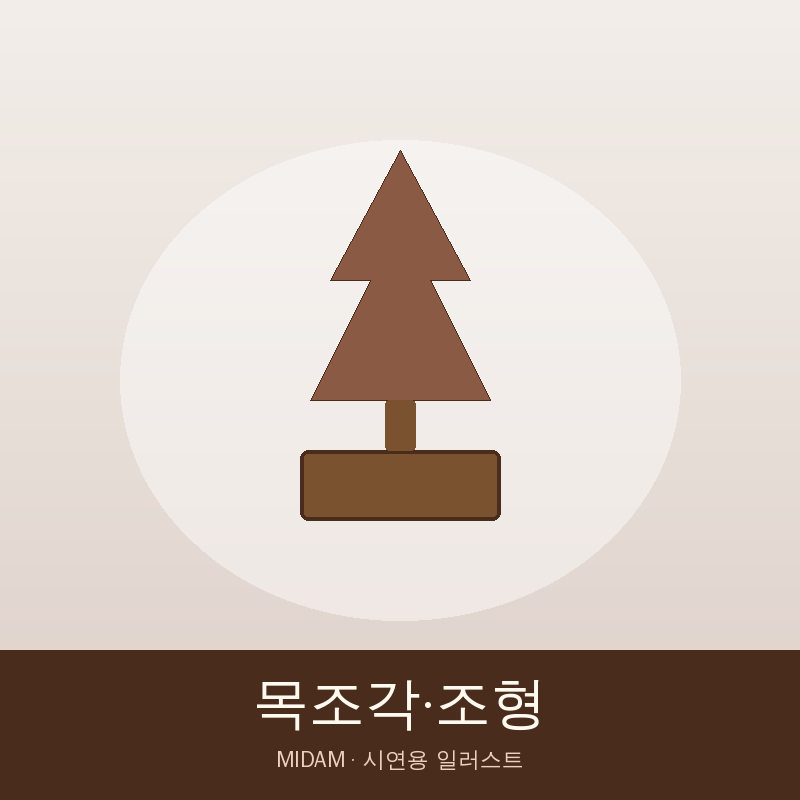
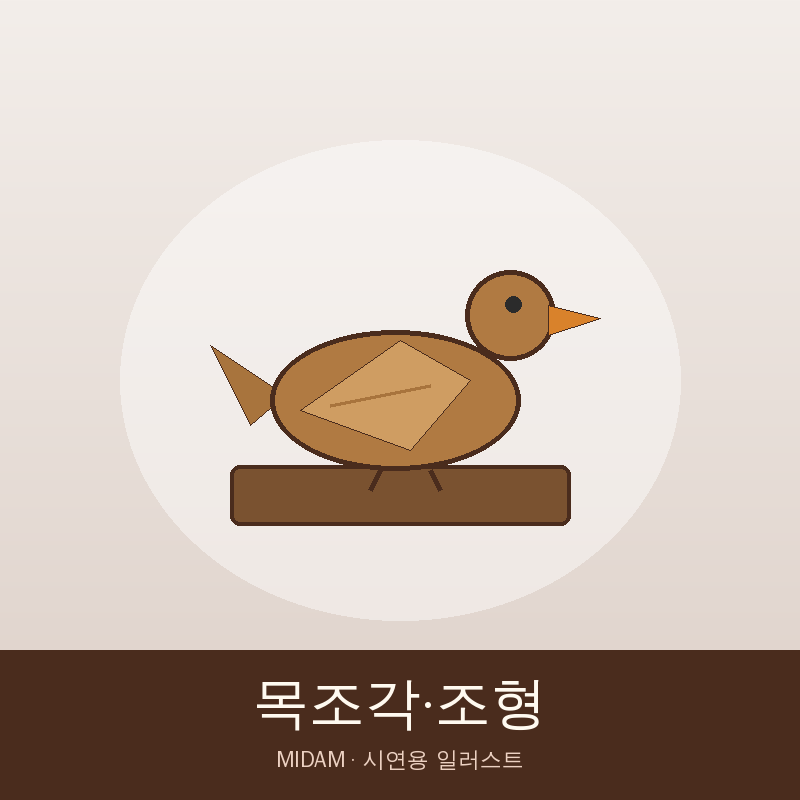
시연 대표 이미지를 서버 없이 열리는 외부 링크(WebP)로 바꾸고 약한 일러스트 9종을 다시 그린다
Claude-Session: https://claude.ai/code/session_016KNfDSWncnnoH8k7bGBps1

Changed region(s): [[0.25, 0.1875, 0.75, 0.6562]]

diff --git a/scripts/seed-images/generate.py b/scripts/seed-images/generate.py
@@ -132,10 +132,16 @@ def draw(kind, p):  # noqa: C901 - 그림 종류별 분기
         p.ell((290, 240, 400, 330), a)
         p.ell((410, 255, 510, 330), CREAM, k, 4)
     elif kind == "board":
-        p.rect((220, 380, 600, 450), l, 24, k, 5)
-        p.poly([(250, 340), (460, 200), (480, 230), (290, 370)], "#c9d3d9", k)
-        p.rect((450, 160, 540, 215), a, 10)
-        p.line([(250, 340), (290, 370)], k, 5)
+        p.rect((200, 340, 520, 500), "#c89a5b", 26, k, 5)
+        p.rect((510, 395, 610, 445), "#c89a5b", 20, k, 5)
+        p.ell((560, 410, 590, 430), CREAM, k, 3)
+        for y in (370, 410, 450, 480):
+            p.line([(230, y), (490, y + 6)], "#a67a3f", 3)
+        p.rect((175, 262, 285, 300), "#6b4a2b", 14, k, 4)
+        p.ell((205, 275, 217, 287), "#e3c76d")
+        p.ell((240, 275, 252, 287), "#e3c76d")
+        p.poly([(285, 262), (500, 250), (545, 272), (500, 300), (285, 300)], "#cfd8de", k)
+        p.line([(290, 296), (505, 296)], "#8fa0aa", 4)
     elif kind == "jar":
         p.poly([(310, 190), (490, 190), (470, 230), (540, 330), (520, 480), (440, 540), (360, 540), (280, 480), (260, 330), (330, 230)], a, k)
         p.rect((300, 160, 500, 200), l, 10, k, 4)
@@ -181,10 +187,17 @@ def draw(kind, p):  # noqa: C901 - 그림 종류별 분기
         p.line([(400, 340), (460, 370)], k, 8)
         p.ell((388, 328, 412, 352), a)
     elif kind == "blind":
-        p.rect((220, 190, 580, 215), k, 6)
-        for x in range(240, 580, 24):
-            p.rect((x, 215, x + 14, 500), l, 4, a, 2)
-        p.line([(400, 215), (400, 540)], k, 4)
+        p.rect((190, 170, 610, 198), k, 8)
+        for x in range(205, 600, 22):
+            p.rect((x, 198, x + 15, 450), l, 4, a, 2)
+        p.line([(190, 280), (610, 280)], a, 5)
+        p.line([(190, 370), (610, 370)], a, 5)
+        p.rect((190, 440, 610, 490), l, 24, k, 4)
+        for x in range(215, 600, 40):
+            p.line([(x, 445), (x, 485)], a, 3)
+        for cx in (230, 570):
+            p.line([(cx, 198), (cx, 510)], "#c0392b", 4)
+            p.ell((cx - 10, 505, cx + 10, 525), "#c0392b")
     elif kind == "chest":
         p.rect((220, 240, 580, 470), a, 10, k, 6)
         p.line([(400, 240), (400, 470)], k, 5)
@@ -194,11 +207,16 @@ def draw(kind, p):  # noqa: C901 - 그림 종류별 분기
         p.rect((240, 470, 270, 520), k, 4)
         p.rect((530, 470, 560, 520), k, 4)
     elif kind == "handle":
-        p.rect((220, 320, 580, 480), a, 12, k, 5)
-        p.ell((340, 340, 460, 460), l, k, 6)
-        p.ell((375, 375, 425, 425), k)
-        p.ell((240, 340, 270, 370), l)
-        p.ell((530, 340, 560, 370), l)
+        p.rect((200, 190, 600, 520), "#c89a5b", 8, k, 5)
+        p.line([(400, 190), (400, 520)], k, 4)
+        for y in (260, 340, 420):
+            p.line([(215, y), (385, y + 4)], "#a67a3f", 3)
+            p.line([(415, y + 4), (585, y)], "#a67a3f", 3)
+        p.poly([(400, 235), (475, 285), (440, 335), (480, 385), (400, 440), (320, 385), (360, 335), (325, 285)], "#d9b44a", k)
+        p.ell((372, 322, 428, 378), "#c89a5b", "#8a6a1f", 6)
+        p.ell((388, 338, 412, 362), "#8a6a1f")
+        for (x, y) in ((345, 285), (455, 285), (345, 390), (455, 390)):
+            p.ell((x - 8, y - 8, x + 8, y + 8), "#8a6a1f")
     elif kind == "ring":
         p.ell((250, 300, 420, 470), None, a, 18)
         p.poly([(335, 285), (365, 250), (305, 250)], "#9ad1ff", k)
@@ -228,10 +246,18 @@ def draw(kind, p):  # noqa: C901 - 그림 종류별 분기
         p.line([(250, 480), (240, 495)], k, 10)
         p.line([(300, 500), (500, 400)], "#c9d3d9", 8)
     elif kind == "scarf":
-        p.poly([(240, 220), (560, 220), (590, 280), (430, 330), (500, 520), (430, 540), (350, 340), (230, 290)], a, k)
-        for x in range(260, 560, 50):
-            p.line([(x, 232), (x - 6, 280)], l, 8)
-        p.line([(436, 480), (470, 530)], l, 6)
+        import math
+        top = [(200 + i * 10, 240 + 20 * math.sin(i * 0.45)) for i in range(41)]
+        bot = [(600 - i * 10, 330 + 20 * math.sin((40 - i) * 0.45)) for i in range(41)]
+        p.poly(top + bot, a, k)
+        for i in range(2, 40, 4):
+            x = 200 + i * 10
+            p.line([(x, 240 + 20 * math.sin(i * 0.45)), (x, 330 + 20 * math.sin(i * 0.45))], l, 8)
+        p.poly([(470, 345), (560, 355), (540, 500), (450, 490)], a, k)
+        for i in range(0, 90, 10):
+            p.line([(455 + i, 492 - (i // 9)), (452 + i, 535)], l, 4)
+        for i in range(0, 90, 12):
+            p.line([(200, 250 + i // 2 + 0), (190, 260 + i // 2)], l, 4)
     elif kind == "bag":
         p.arc((300, 170, 500, 330), 180, 360, k, 12)
         p.rect((230, 270, 570, 500), a, 40, k, 5)
@@ -271,10 +297,16 @@ def draw(kind, p):  # noqa: C901 - 그림 종류별 분기
         p.line([(330, 420), (320, 500)], a, 6)
         p.line([(470, 420), (480, 500)], a, 6)
     elif kind == "headband":
-        p.arc((220, 190, 580, 520), 200, 340, k, 24)
-        p.arc((220, 200, 580, 530), 200, 340, a, 10)
-        p.ell((375, 180, 425, 230), l, k, 5)
-        p.ell((388, 193, 412, 217), a)
+        p.ell((300, 190, 500, 420), "#e2c9a1", k, 5)
+        p.rect((370, 410, 430, 510), "#c9ad82", 8, k, 4)
+        p.ell((310, 500, 490, 540), "#c9ad82", k, 4)
+        p.rect((296, 270, 504, 330), "#3a3a3a", 16, k, 4)
+        for x in range(306, 500, 14):
+            p.line([(x, 276), (x + 7, 324)], "#6d6d6d", 2)
+            p.line([(x + 7, 276), (x, 324)], "#6d6d6d", 2)
+        for x in (320, 480):
+            p.ell((x - 14, 286, x + 14, 314), None, "#d9b44a", 5)
+        p.ell((384, 280, 416, 322), "#e8a33d", k, 3)
     elif kind == "brush":
         p.line([(250, 520), (470, 260)], "#8a5a2b", 16)
         p.poly([(470, 260), (500, 200), (540, 170), (520, 230), (490, 270)], INK)
@@ -311,11 +343,16 @@ def draw(kind, p):  # noqa: C901 - 그림 종류별 분기
         for (x, y) in ((250, 290), (550, 290), (250, 450), (550, 450)):
             p.ell((x - 10, y - 10, x + 10, y + 10), l, k, 3)
     elif kind == "bedding":
-        p.rect((200, 330, 600, 500), a, 30, k, 5)
-        p.rect((200, 330, 600, 390), l, 30, k, 4)
-        p.rect((250, 260, 420, 335), CREAM, 40, k, 4)
-        for x in range(240, 580, 60):
-            p.ell((x, 430, x + 30, 460), l)
+        p.rect((200, 420, 600, 505), a, 30, k, 5)
+        p.rect((220, 350, 580, 430), l, 30, k, 4)
+        p.rect((240, 280, 560, 360), CREAM, 30, k, 4)
+        for x in range(255, 580, 70):
+            p.ell((x, 440, x + 34, 474), l)
+        for x in range(265, 560, 60):
+            p.ell((x, 372, x + 26, 398), a)
+        p.rect((300, 195, 500, 290), CREAM, 40, k, 4)
+        p.line([(330, 245), (470, 245)], l, 5)
+        p.ell((385, 215, 415, 245), a)
     elif kind == "tablecloth":
         p.rect((190, 300, 610, 340), a, 6, k, 4)
         p.poly([(190, 340), (610, 340), (640, 470), (160, 470)], l, k)
@@ -362,16 +399,26 @@ def draw(kind, p):  # noqa: C901 - 그림 종류별 분기
             p.ell((x0 + 30, 260, x0 + 70, 300), a)
             p.line([(x0 + 50, 300), (x0 + 50, 420)], a, 5)
     elif kind == "calligraphy":
-        p.rect((250, 170, 550, 520), CREAM, 6, k, 4)
-        p.line([(400, 230), (400, 450)], INK, 14)
-        p.line([(320, 290), (480, 290)], INK, 12)
-        p.line([(340, 360), (460, 360)], INK, 12)
-        p.line([(400, 450), (350, 480)], INK, 10)
-        p.rect((470, 440, 520, 490), "#c0392b", 4)
+        p.rect((280, 160, 520, 185), "#6b4a2b", 6, k, 3)
+        p.rect((300, 185, 500, 520), CREAM, 4, k, 4)
+        p.rect((290, 515, 510, 540), "#6b4a2b", 6, k, 3)
+        p.line([(345, 250), (455, 215)], INK, 24)
+        p.line([(400, 225), (385, 330)], INK, 22)
+        p.line([(335, 335), (470, 345)], INK, 20)
+        p.line([(380, 340), (350, 440)], INK, 20)
+        p.line([(405, 350), (455, 440)], INK, 20)
+        p.rect((450, 455, 492, 497), "#c0392b", 4)
     elif kind == "carving":
-        p.rect((300, 450, 500, 520), "#7a5230", 8, k, 4)
-        p.poly([(400, 150), (470, 280), (430, 280), (490, 400), (310, 400), (370, 280), (330, 280)], a, k)
-        p.rect((385, 400, 415, 450), "#7a5230", 4)
+        p.rect((230, 465, 570, 525), "#7a5230", 10, k, 4)
+        p.poly([(285, 395), (210, 345), (250, 425)], "#a8743d", k)
+        p.ell((270, 330, 520, 470), "#b07a42", k, 5)
+        p.poly([(300, 410), (400, 340), (470, 380), (410, 450)], "#cf9d62", k)
+        p.line([(330, 405), (430, 385)], "#a8743d", 4)
+        p.ell((465, 270, 555, 360), "#b07a42", k, 5)
+        p.poly([(548, 305), (600, 318), (548, 335)], "#d9822b", k)
+        p.ell((505, 296, 521, 312), INK)
+        p.line([(380, 470), (370, 490)], k, 5)
+        p.line([(430, 470), (440, 490)], k, 5)
     elif kind == "mask":
         p.ell((260, 170, 540, 500), CREAM, k, 6)
         p.ell((310, 280, 370, 330), INK)
@@ -399,11 +446,14 @@ def draw(kind, p):  # noqa: C901 - 그림 종류별 분기
         p.ell((200, 470, 600, 530), "#6fa56a")
         p.line([(400, 470), (400, 540)], "#4f7d3c", 8)
     elif kind == "pedestal":
-        p.rect((250, 430, 550, 520), l, 10, k, 5)
-        p.rect((290, 400, 510, 440), a, 8, k, 4)
-        p.ell((340, 200, 460, 330), "#9ad1ff", k, 5)
-        p.poly([(340, 265), (400, 200), (460, 265), (400, 330)], "#c8e7ff")
-        p.line([(350, 345), (450, 345)], "#ffffff", 6)
+        p.rect((240, 460, 560, 525), l, 10, k, 5)
+        p.rect((290, 410, 510, 465), a, 8, k, 4)
+        p.ell((300, 190, 500, 410), "#e4f1fc")
+        p.poly([(380, 300), (420, 300), (445, 345), (425, 395), (375, 395), (355, 345)], "#9fc7b6", k)
+        p.rect((375, 285, 425, 305), "#9fc7b6", 6, k, 3)
+        p.ell((300, 190, 500, 410), None, "#6fa3d1", 5)
+        p.rect((296, 392, 504, 416), "#6fa3d1", 6)
+        p.arc((330, 220, 400, 300), 200, 280, "#ffffff", 6)
     elif kind == "liquor":
         p.poly([(360, 160), (440, 160), (450, 260), (520, 340), (520, 510), (280, 510), (280, 340), (350, 260)], l, k)
         p.rect((350, 130, 450, 175), a, 10)
@@ -476,6 +526,8 @@ def main():
     for sub_id, name, cat_id, kind in ITEMS:
         img = make(font_path, sub_id, name, cat_id, kind)
         img.save(os.path.join(OUT, f"sub-{sub_id:02d}.png"), optimize=True)
+        # 업로드 규격과 같은 WebP(≤10MB, ≤10,000px)도 함께 만든다. 외부 링크로 서비스할 때 이 파일을 쓴다.
+        img.save(os.path.join(OUT, f"sub-{sub_id:02d}.webp"), "WEBP", quality=88, method=6)
     print(f"{len(ITEMS)}개 생성 -> {os.path.abspath(OUT)}")
 
 

diff --git a/src/test/java/com/jangingmall/backend/global/seed/DemoSeedMigrationTest.java b/src/test/java/com/jangingmall/backend/global/seed/DemoSeedMigrationTest.java
@@ -3,10 +3,8 @@ package com.jangingmall.backend.global.seed;
 import static org.assertj.core.api.Assertions.assertThat;
 
 import java.nio.charset.StandardCharsets;
-import java.util.HashSet;
-import java.util.Set;
-import java.util.regex.Matcher;
-import java.util.regex.Pattern;
+import java.nio.file.Files;
+import java.nio.file.Path;
 import org.junit.jupiter.api.BeforeAll;
 import org.junit.jupiter.api.DisplayName;
 import org.junit.jupiter.api.Test;
@@ -25,25 +23,26 @@ class DemoSeedMigrationTest {
     }
 
     @Test
-    @DisplayName("소분류 1~56 모두에 STG 이미지 서버의 서로 다른 이미지 ID 가 하나씩 짝지어진다")
-    void everySubcategoryHasItsOwnCdnImage() {
-        Matcher matcher = Pattern.compile("\\((\\d+), '([0-9A-Z]{26})'\\)").matcher(sql);
-        Set<Integer> subcategories = new HashSet<>();
-        Set<String> imageIds = new HashSet<>();
-        while (matcher.find()) {
-            subcategories.add(Integer.parseInt(matcher.group(1)));
-            imageIds.add(matcher.group(2));
+    @DisplayName("소분류 1~56 모두의 일러스트(WebP)가 저장소에 있고, 업로드 규격(WebP·10MB 이하)을 지킨다")
+    void everySubcategoryHasAWebpIllustrationWithinLimits() throws Exception {
+        for (int id = 1; id <= 56; id++) {
+            Path file = Path.of("docs/seed-images", String.format("sub-%02d.webp", id));
+            assertThat(file).as(file.toString()).exists();
+            byte[] bytes = Files.readAllBytes(file);
+            assertThat(bytes.length).as(file + " 크기").isBetween(100, 10 * 1024 * 1024);
+            // WebP 파일은 RIFF....WEBP 로 시작한다
+            assertThat(new String(bytes, 0, 4, StandardCharsets.US_ASCII)).isEqualTo("RIFF");
+            assertThat(new String(bytes, 8, 4, StandardCharsets.US_ASCII)).isEqualTo("WEBP");
         }
-        assertThat(subcategories).containsExactlyInAnyOrderElementsOf(
-            java.util.stream.IntStream.rangeClosed(1, 56).boxed().toList());
-        assertThat(imageIds).hasSize(56);
+        assertThat(sql).contains("p.subcategory_id BETWEEN 1 AND 56");
     }
 
     @Test
-    @DisplayName("대표 이미지는 이미지 서버(img.stg.midam.store) 1280w 주소로 만들고 외부 사이트를 가리키지 않는다")
-    void thumbnailPointsAtImageServer() {
-        assertThat(sql).contains("https://img.stg.midam.store/images/product/63/' || m.image_id || '/1280w.webp");
-        assertThat(sql).doesNotContain("raw.githubusercontent.com").doesNotContain("unsplash");
+    @DisplayName("대표 이미지는 서버(S3/CDN)가 아닌 저장소 외부 링크(.webp)로 연결하고 다른 외부 사이트를 가리키지 않는다")
+    void thumbnailPointsAtRepositoryFiles() {
+        assertThat(sql).contains("https://raw.githubusercontent.com/Jangingmall/backend/develop/docs/seed-images/sub-")
+            .contains("|| '.webp'");
+        assertThat(sql).doesNotContain("img.stg.midam.store").doesNotContain("unsplash");
     }
 
     @Test
